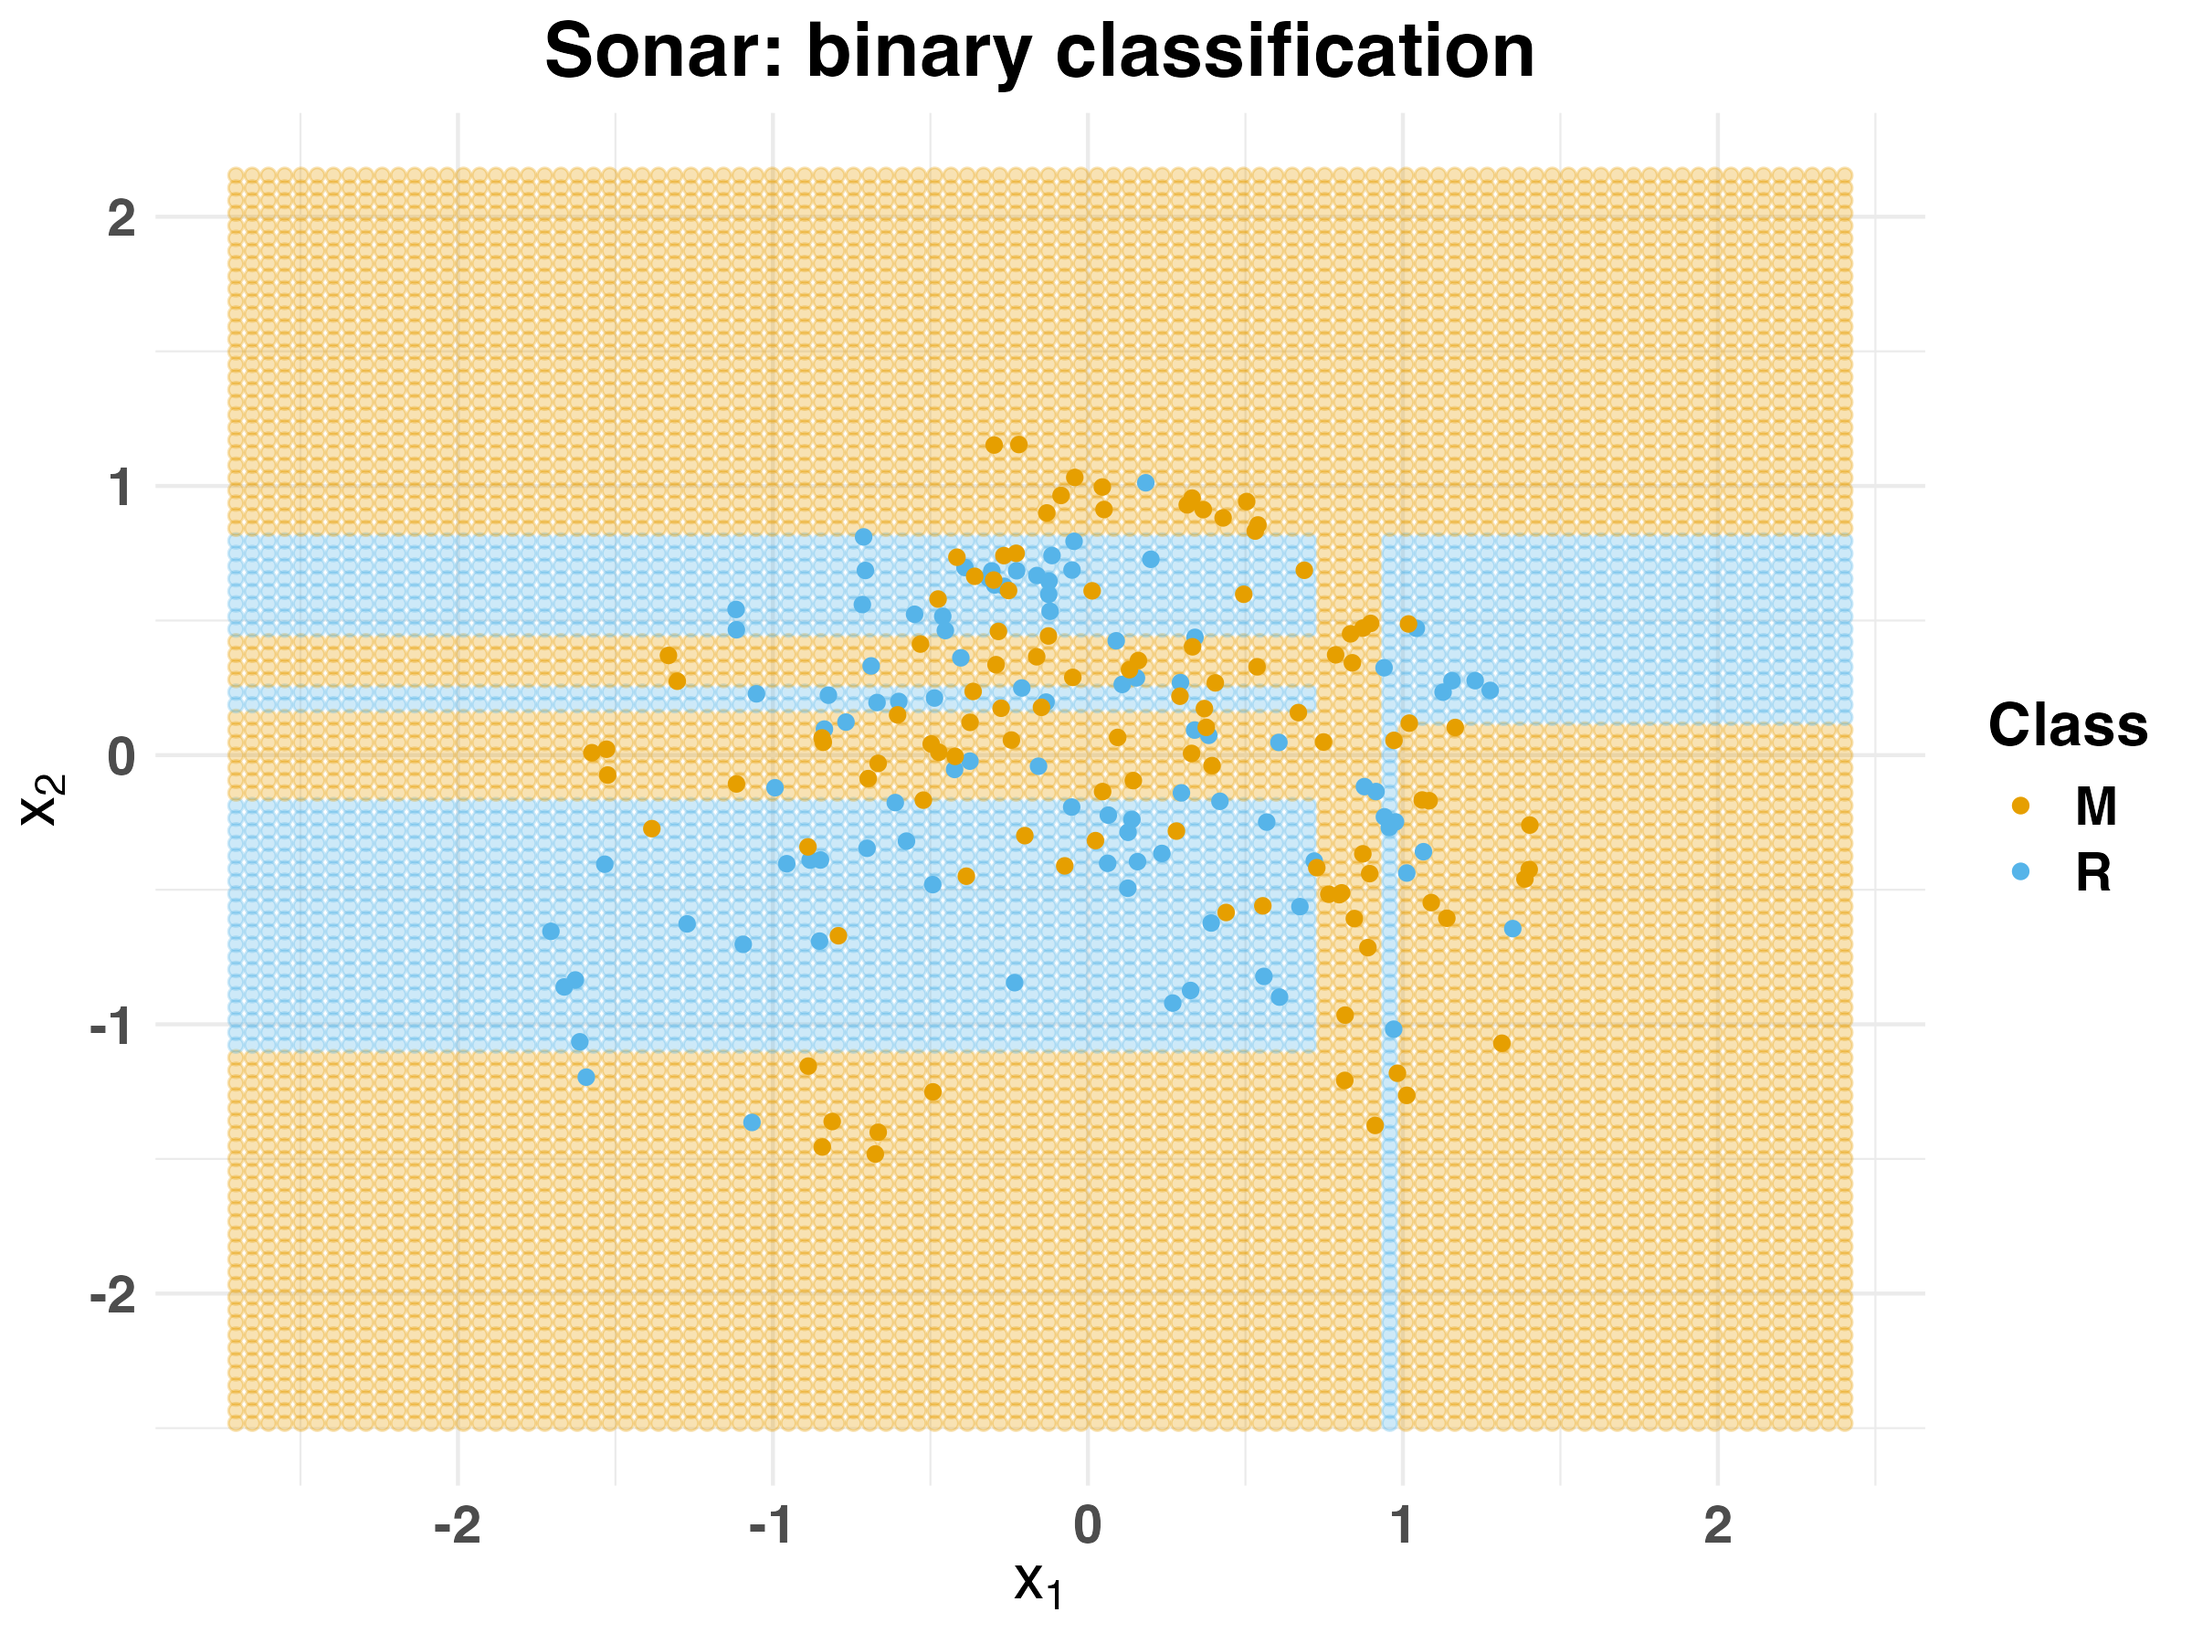
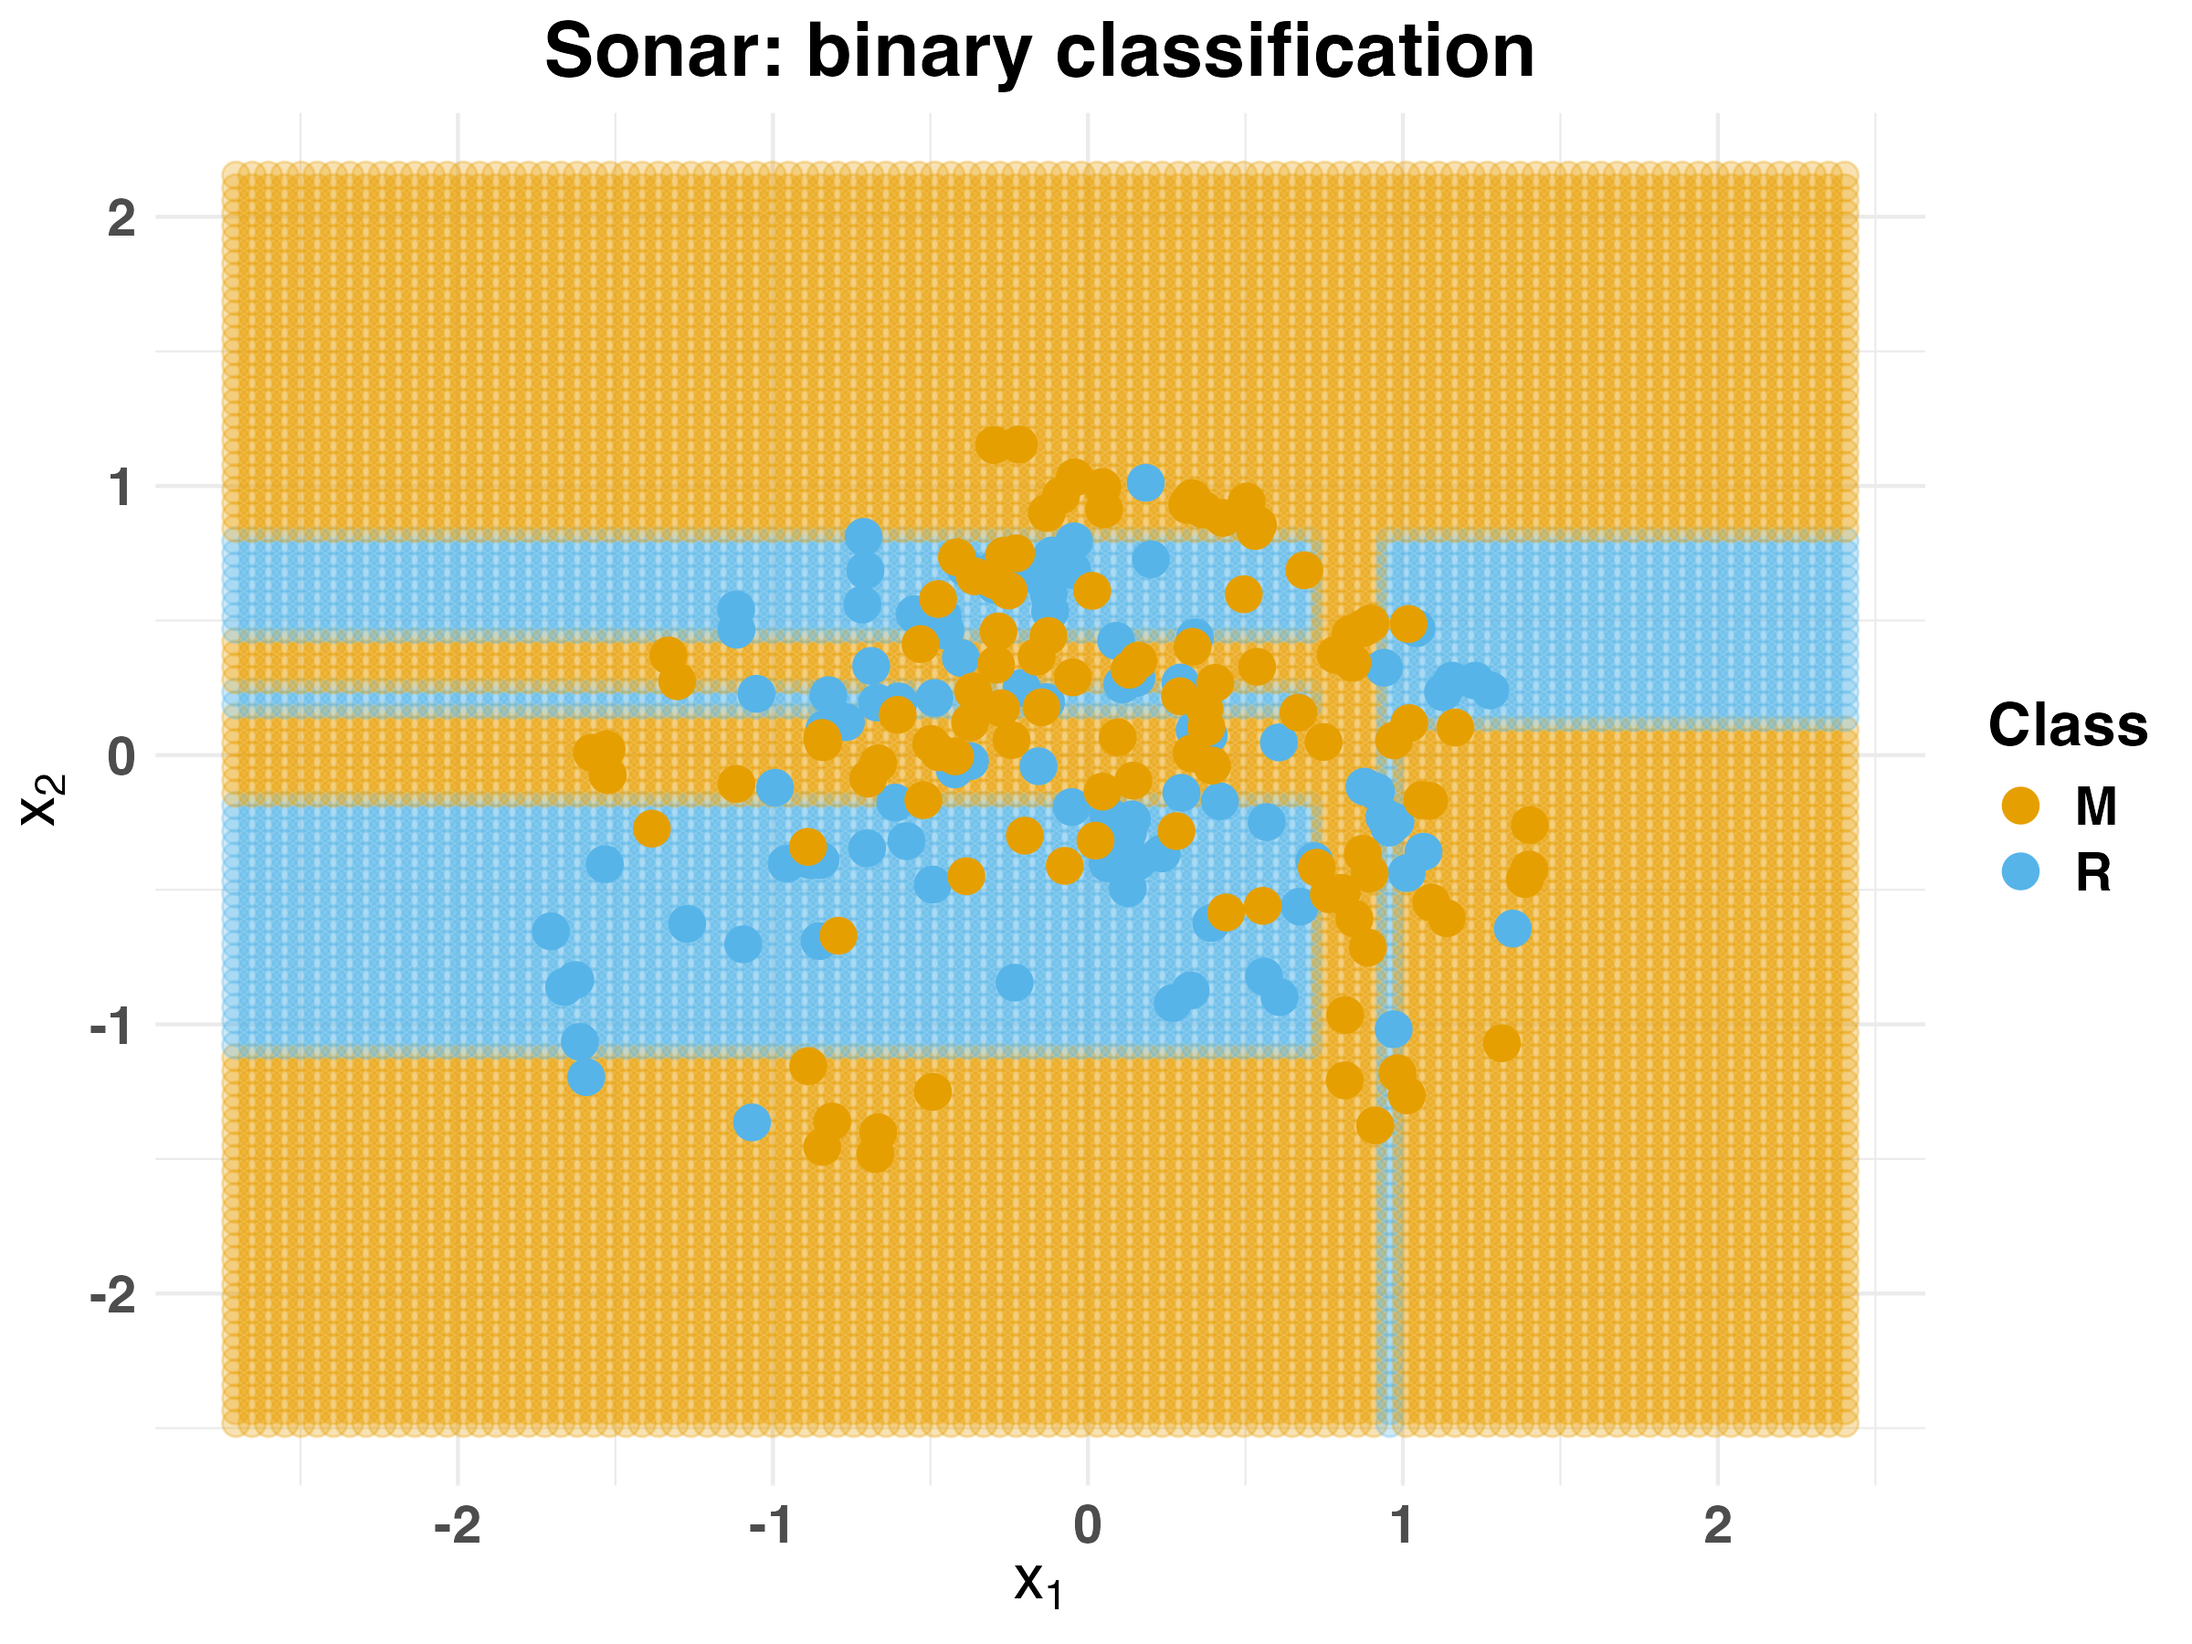
tasks: bigger datapoints

diff --git a/slides/supervised-classification/slides-classification-tasks.tex b/slides/supervised-classification/slides-classification-tasks.tex
@@ -10,81 +10,26 @@
   }{% Lecture title  
   Tasks
 }{% Relative path to title page image: Can be empty but must not start with slides/
-  figure/reg_class_task_1
+  figure/tasks-bc.png
 }{% Learning goals, wrapped inside itemize environment
   \item Understand the main difference between regression and classification
   \item Know that classification can be binary or multiclass
   \item Know some examples of classification tasks
 }
 
-
-% <<include=FALSE>>=
-%   library(datasets)
-% df <- as.data.frame(Titanic)
-% titanic.raw <- NULL
-% for (i in 1:4)
-% {
-%   titanic.raw <- cbind(titanic.raw,
-%                        rep(as.character(df[,i]),df$Freq))
-% }
-% titanic.raw <- as.data.frame(titanic.raw)
-% names(titanic.raw) <- names(df)[1:4]
-% @
-%
 \begin{vbframe}{Classification}
-% The Titanic dataset is a famous beginner's problem for binary classification (see for example \href{https://www.kaggle.com/c/titanic}{the Titanic competition on kaggle.com}).
-% The goal is to classify the passengers of the Titanic into Survived $\in$ $\{Yes, No\}$ given information about the class they traveled in, the sex and the age.
-%
-%
-%  % \column{0.5\textwidth}
-% \begin{center}
-% \textbf{Titanic Passengers} \\
-% \vspace{0.25cm}
-% <<>>=
-%   kable(unique(titanic.raw)[c(1:8,12:15),], row.names = FALSE)
-% @
-%   \end{center}
-%
-%  \framebreak
-
- % \begin{vbframe}{Classification}
 Learn functions that assign class labels to observation / feature vectors. Each observation belongs to exactly one class. The main difference to regression is the scale of the output / label.
-  % \begin{eqnarray*}
-  % &\D = \Dset & \text{observations of $x$ and $y$}\\
-  % & y \in \Yspace = \gset \quad & \text{\emph{categorical} output variable (label)}
-  % \end{eqnarray*}
 {\centering \includegraphics[width= .7\textwidth]{figure_man/classifier.pdf}}
 
 \end{vbframe}
 
 \begin{vbframe}{Binary and Multiclass Tasks}
 The task can contain 2 classes (binary) or multiple (multiclass).
-\begin{columns}[T]
-  \begin{column}{0.5\textwidth}
-\begin{knitrout}\scriptsize
-\definecolor{shadecolor}{rgb}{0.969, 0.969, 0.969}\color{fgcolor}
 
-{\centering \includegraphics[width=0.95\textwidth]{figure/reg_class_task_1}
+\begin{center}
+\includegraphics[width=\textwidth]{figure/tasks-combined.png}
+\end{center}
 
-}
-
-
-
-\end{knitrout}
-  \end{column}
-  \begin{column}{0.5\textwidth}
-\begin{knitrout}\scriptsize
-\definecolor{shadecolor}{rgb}{0.969, 0.969, 0.969}\color{fgcolor}
-
-{\centering \includegraphics[width=0.95\textwidth]{figure/reg_class_task_2}
-
-}
-
-
-
-\end{knitrout}
-  \end{column}
-\end{columns}
 \end{vbframe}
 
 
